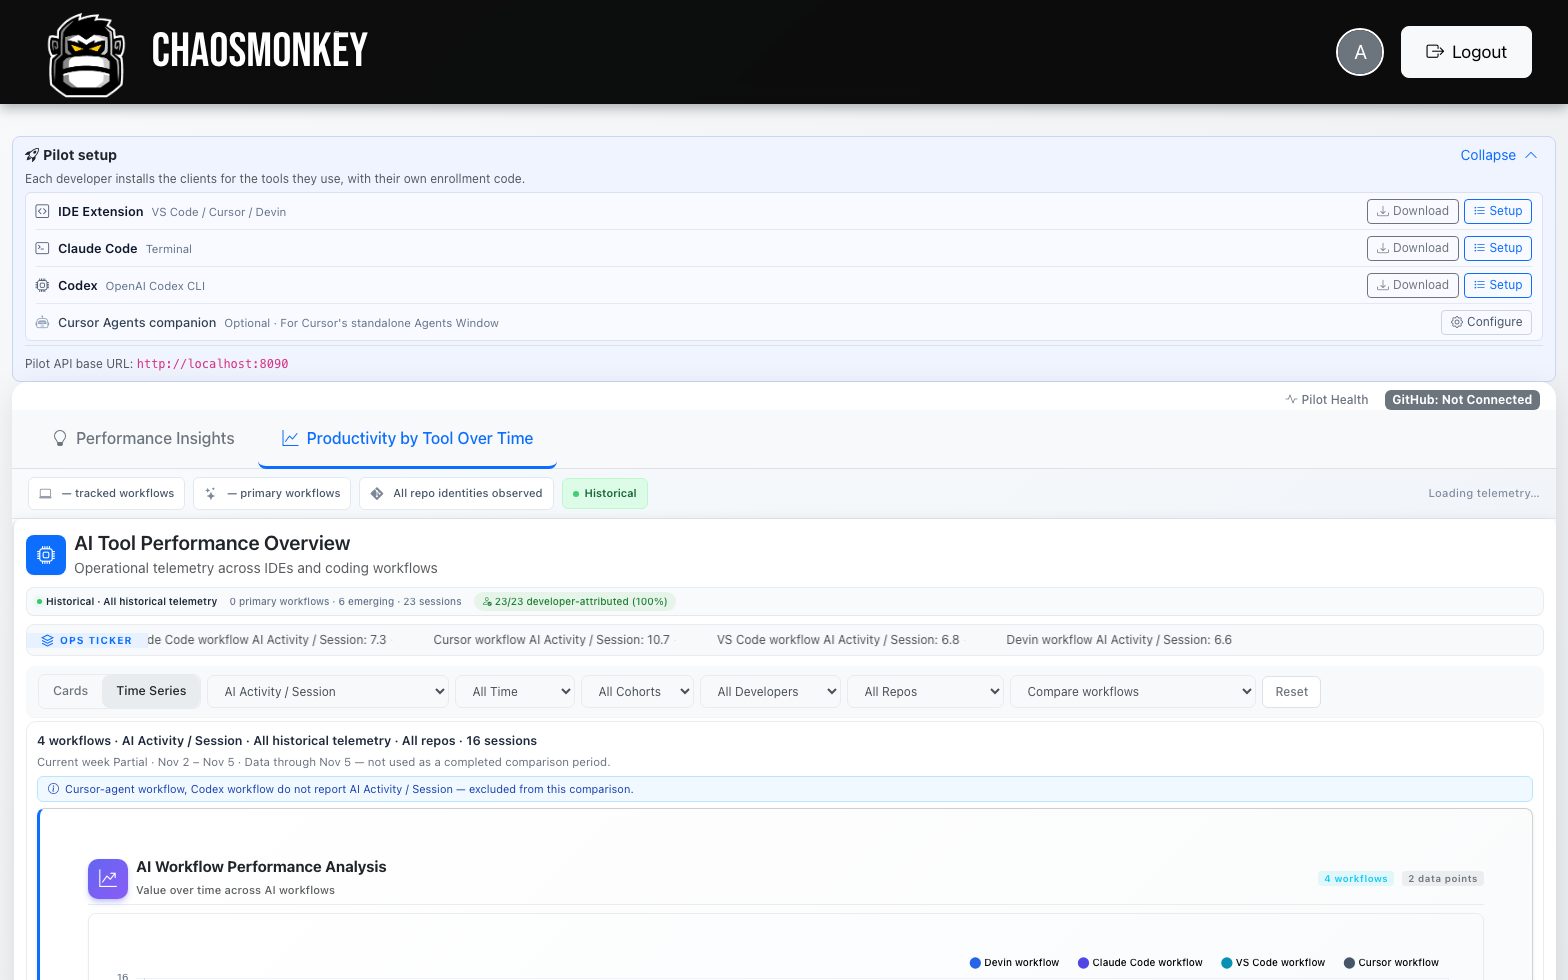
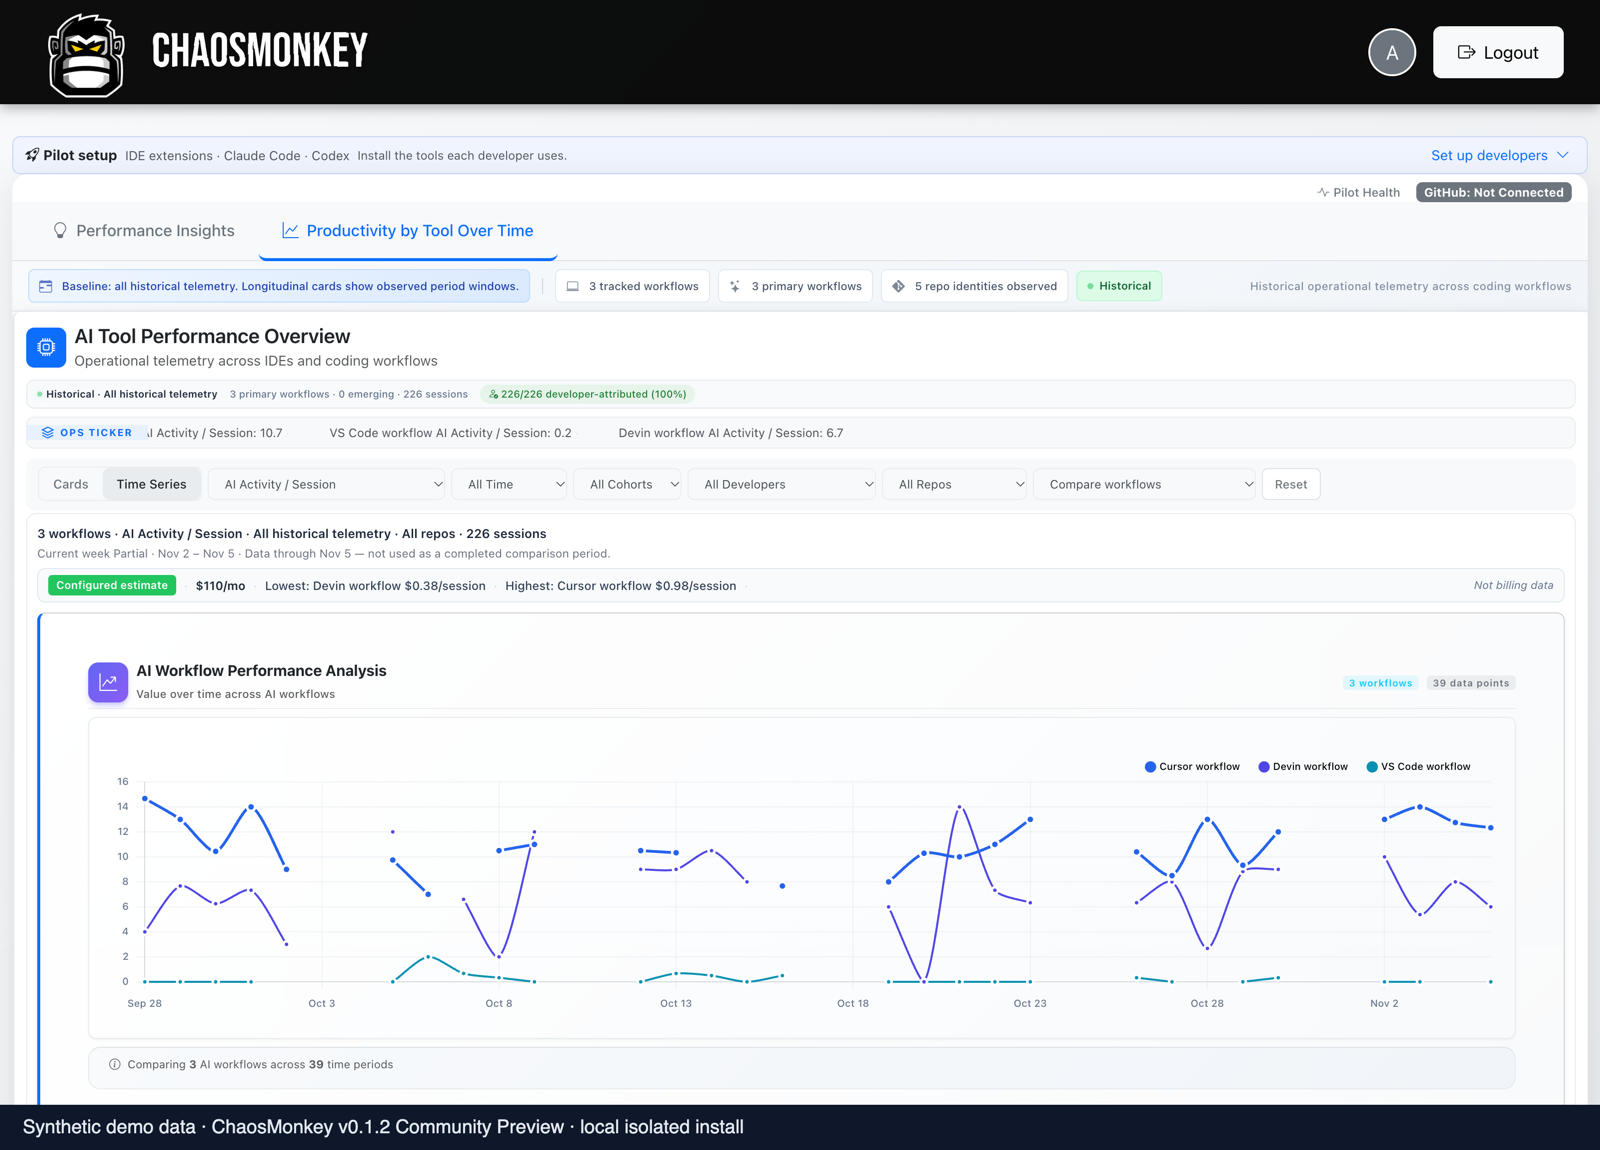
Upgrade gallery: time-series, PI findings, and evidence-gated captures (#30)
Re-capture analytics screenshots on v0.1.2 from an isolated local install
using a six-week synthetic dataset (226 canonical sessions across three
workflows) ingested through the authenticated telemetry API.

- Reorder Analytics: AIOI, PBT time series, Performance Insights, PBT cards
- Add real time-series chart with filters, cost layer, and partial-week flag
- Show both real PI states: qualified findings and evidence-gated progress
- Label every screenshot as synthetic demo data
- Update README "What it looks like" with the time-series view and a
  Performance Insights gallery link

Generated with [Devin](https://devin.ai)

diff --git a/docs/product-gallery.md b/docs/product-gallery.md
@@ -1,15 +1,19 @@
 # Product gallery
 
-Screenshots captured from a real `v0.1.0` all-in-one container. Every image
-shows **synthetic demo data only** — generated by
-[`tools/demo/telemetry-simulator.js`](../tools/demo/telemetry-simulator.js)
-against three enrolled developer identities. No customer or production
+Screenshots captured from a real `v0.1.2` all-in-one container running
+locally in isolation. Every image shows **synthetic demo data only** — each
+screenshot carries a "Synthetic demo data" label. No customer or production
 telemetry appears anywhere in this gallery.
 
+The demo dataset was ingested through the normal authenticated telemetry
+API as timestamped sessions spread across six simulated weeks (226 canonical
+sessions across three enrolled developer identities and three tracked
+workflows). It passes the same validation, enrichment, and evidence rules as
+ordinary telemetry.
+
 Where a feature depends on configuration that was intentionally left
-unconfigured (GitHub integration, billing) or on evidence thresholds the demo
-dataset does not yet meet (Performance Insights), the screenshot shows the
-real unconfigured/evidence-gated state — we do not fake populated screens.
+unconfigured (GitHub integration, billing), the screenshot shows the real
+unconfigured state — we do not fake populated screens.
 
 ## Analytics
 
@@ -17,33 +21,50 @@ real unconfigured/evidence-gated state — we do not fake populated screens.
 
 Per-workflow session analytics across every tracked tool — session runtime,
 AI activity per session, adoption share, and instrumented coverage. Each
-card is attributed to a distinct workflow (Cursor, Claude Code, Codex,
-Devin, VS Code, Cursor Agent).
+card is attributed to a distinct workflow. This view shows the populated
+state across 226 demo sessions, with the Performance Insights engine's
+qualified output directly below it.
 
 ![AI Operational Intelligence](screenshots/dashboard.png)
 
-### Productivity by tool — cards
+### Productivity by tool — time-series analytics
 
-Per-workflow AI activity with historical averages, peaks, and an ops ticker
-across all tracked workflows.
-
-![Productivity by tool](screenshots/productivity-by-tool.png)
-
-### Productivity by tool — time series
-
-The same metrics as a time series, with cohort, developer, repository, and
-workflow-comparison filters.
+Historical workflow metrics rendered as real chart lines across a six-week
+window. The Time Series tab plots per-workflow values over time with metric,
+period, cohort, developer, repository, and workflow-comparison filters. The
+cost layer reads configured per-seat spend (labeled "Configured estimate ·
+Not billing data"), and partial weeks are flagged rather than silently
+counted as completed periods.
 
 ![Productivity by tool — time series](screenshots/pbt-time-series.png)
 
-### Performance Insights — evidence gating
+### Performance Insights
 
-Performance Insights only fires on sufficient evidence. This install shows
-the honest "collecting evidence" state: the engine reports how much data it
-has, what thresholds apply, and what findings unlock next. Screenshots of
-mature findings would require a dataset we did not fabricate.
+Performance Insights only fires on sufficient evidence, and the engine says
+so when it doesn't have enough. Both states below are real engine output —
+nothing is hardcoded or mocked.
 
-![Performance Insights — evidence gating](screenshots/performance-insights.png)
+**Qualified findings** — with 226 sessions across three workflows, the
+engine produces attributed findings, ranks them, and labels each with its
+evidence basis ("Observational", session counts on both sides of the
+comparison).
+
+![Performance Insights — qualified findings](screenshots/performance-insights.png)
+
+**Evidence-gated state** — at low session volume the same engine shows
+"collecting evidence" cards that report the sample size, the applicable
+threshold ("threshold: 5"), and the confidence cap until 25+ sessions per
+workflow. Findings are honest early signals, not fabricated maturity.
+
+![Performance Insights — evidence gating](screenshots/performance-insights-evidence.png)
+
+### Productivity by tool — summary cards
+
+The longitudinal card view of the same data: per-workflow AI activity with
+historical averages, peaks, sparklines, and an ops ticker across all tracked
+workflows.
+
+![Productivity by tool — summary cards](screenshots/productivity-by-tool.png)
 
 ## Team setup and enrollment
 

diff --git a/README.md b/README.md
@@ -42,17 +42,19 @@ infrastructure. GitHub integration is optional; telemetry works without it.
 
 ## What it looks like
 
-*AI Operational Intelligence — six tracked workflows across 23 sessions,
-rendered from synthetic demo data.*
+*AI Operational Intelligence — per-workflow session analytics across 226
+sessions, rendered from synthetic demo data.*
 
 ![ChaosMonkey dashboard — AI Operational Intelligence](docs/screenshots/dashboard.png)
 
-*Productivity by tool — per-workflow AI activity and session metrics
-(simulated demo data).*
+*Productivity by tool — time-series analytics: per-workflow metrics plotted
+across six weeks, with period, cohort, developer, repository, and
+workflow-comparison filters (synthetic demo data).*
 
-![Productivity by tool](docs/screenshots/productivity-by-tool.png)
+![Productivity by tool — time series](docs/screenshots/pbt-time-series.png)
 
-More views — time-series analytics, Performance Insights evidence gating,
+More views — including [Performance Insights](docs/product-gallery.md#performance-insights)
+(qualified findings and the honest evidence-gated state), summary cards,
 developer enrollment, Pilot Health, and GitHub setup — in the
 [product gallery](docs/product-gallery.md). All gallery screenshots use
 synthetic data.
